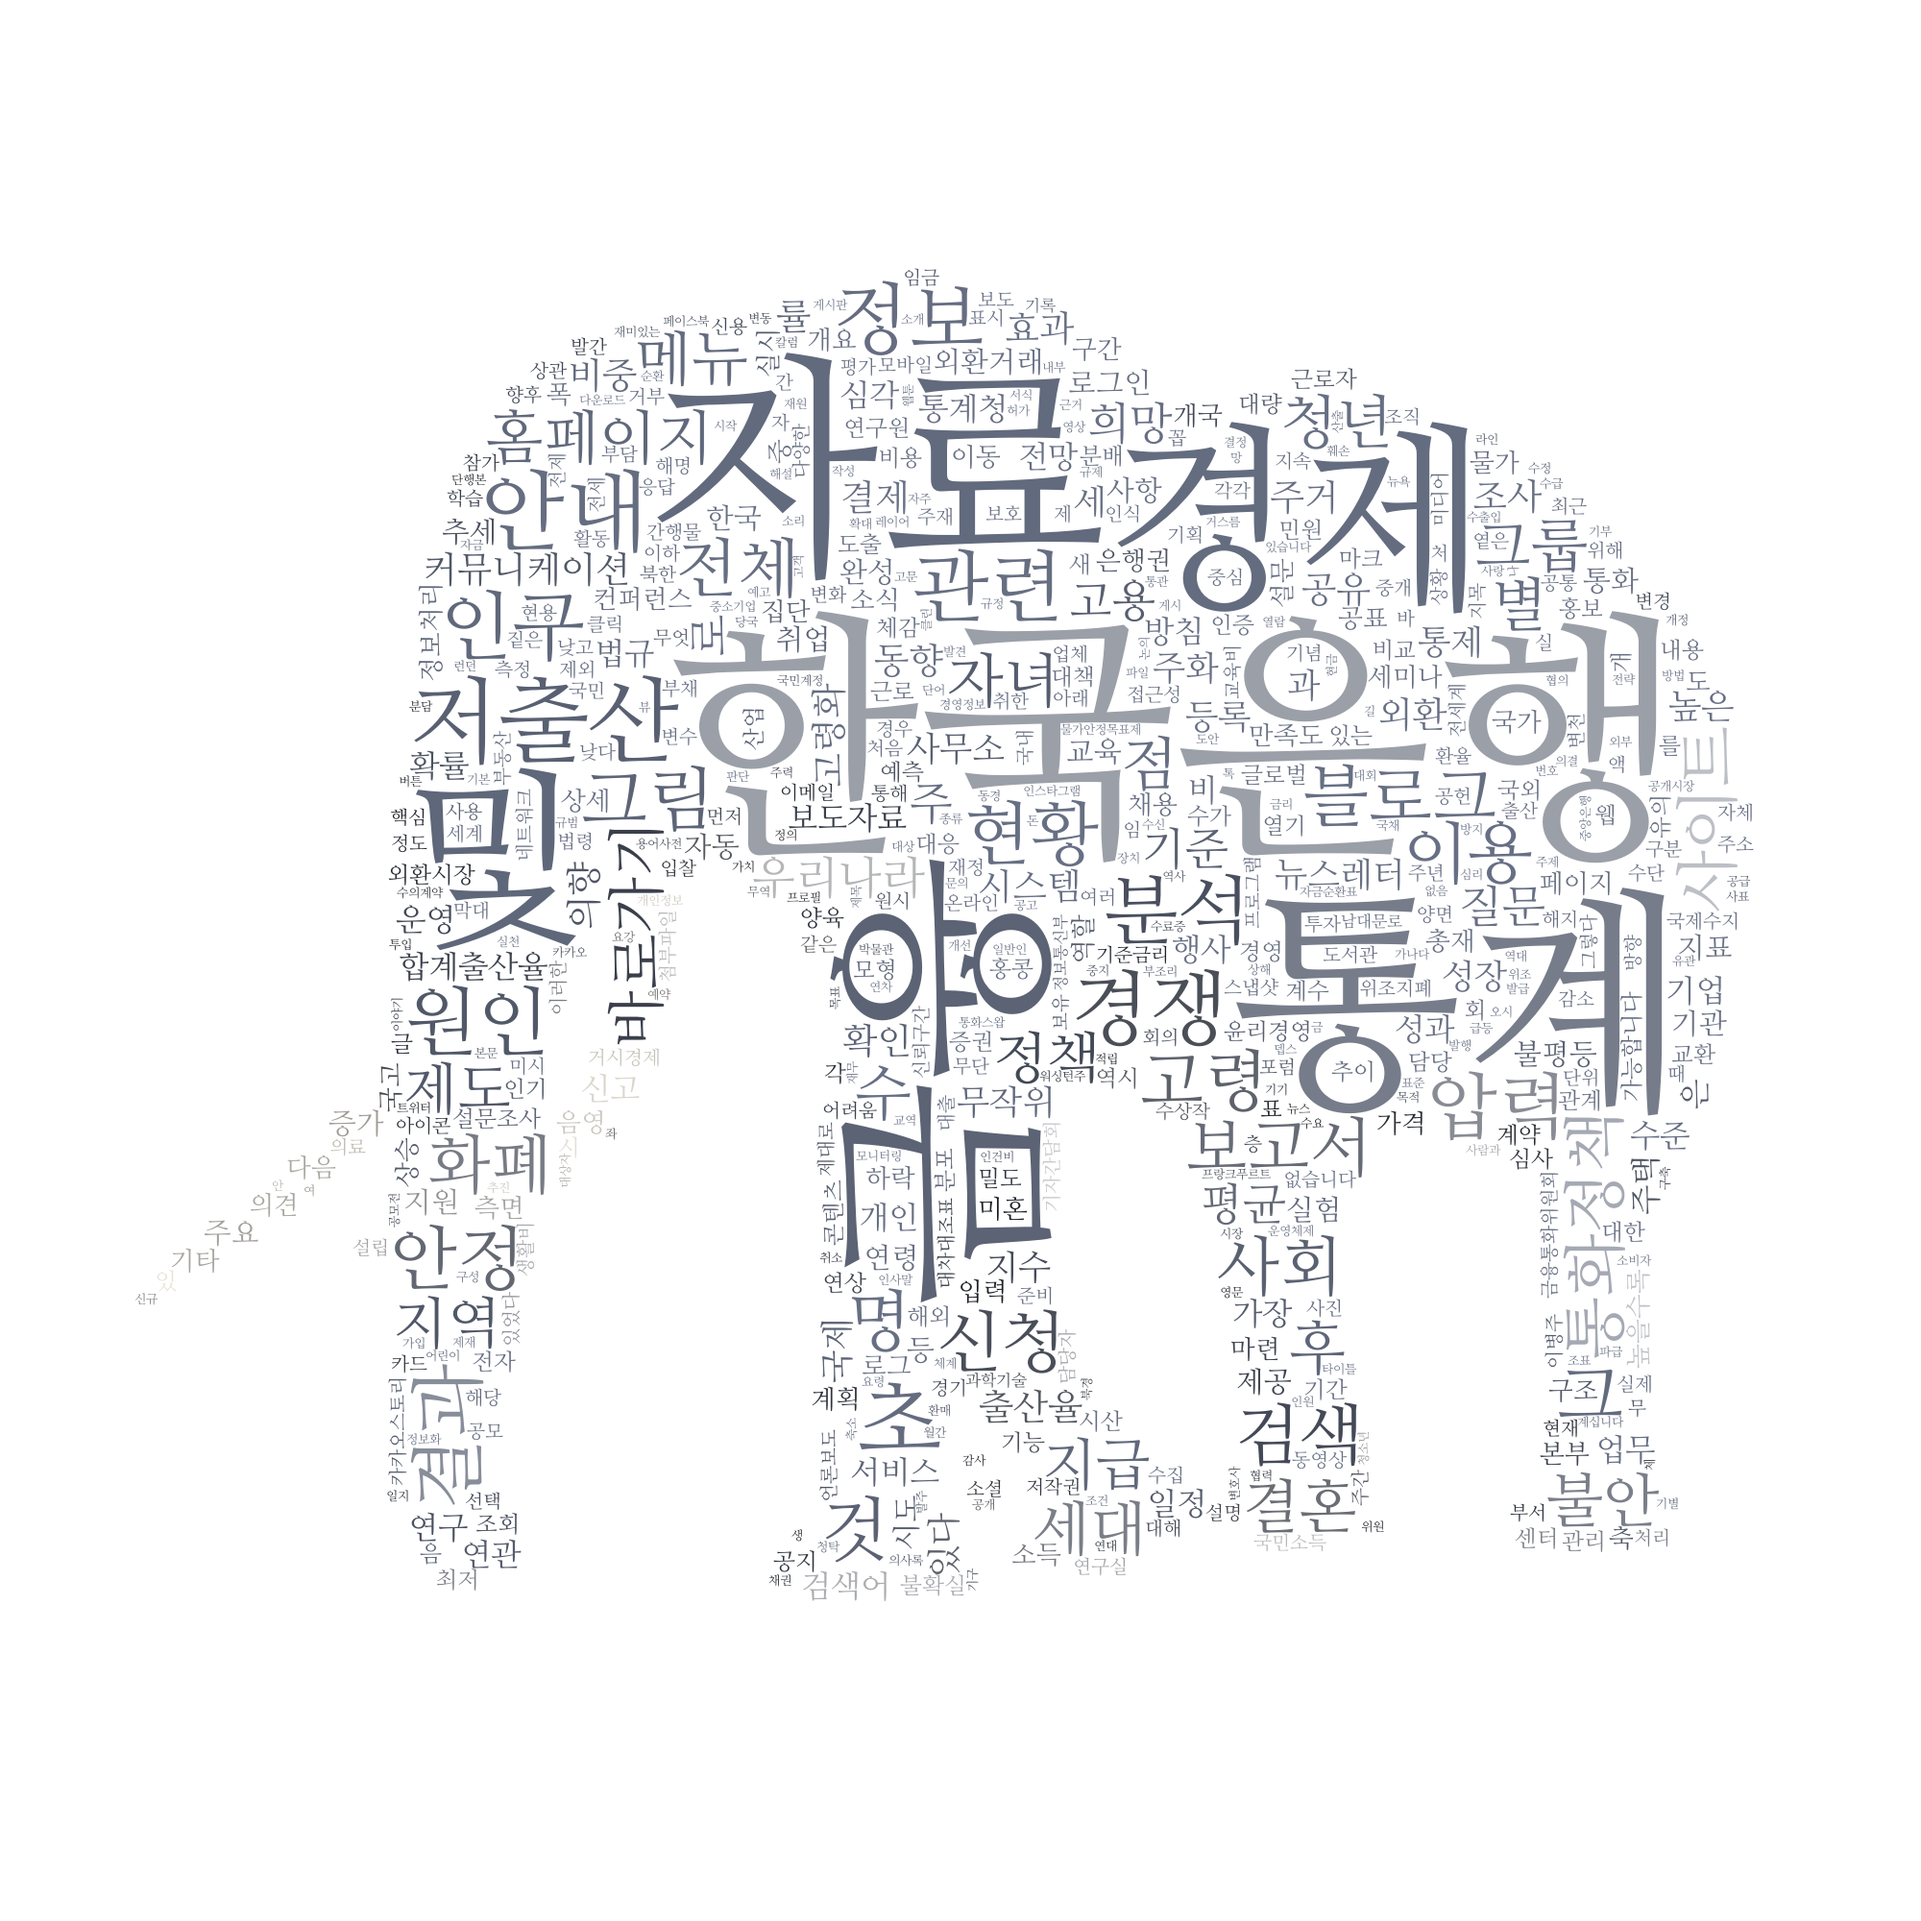
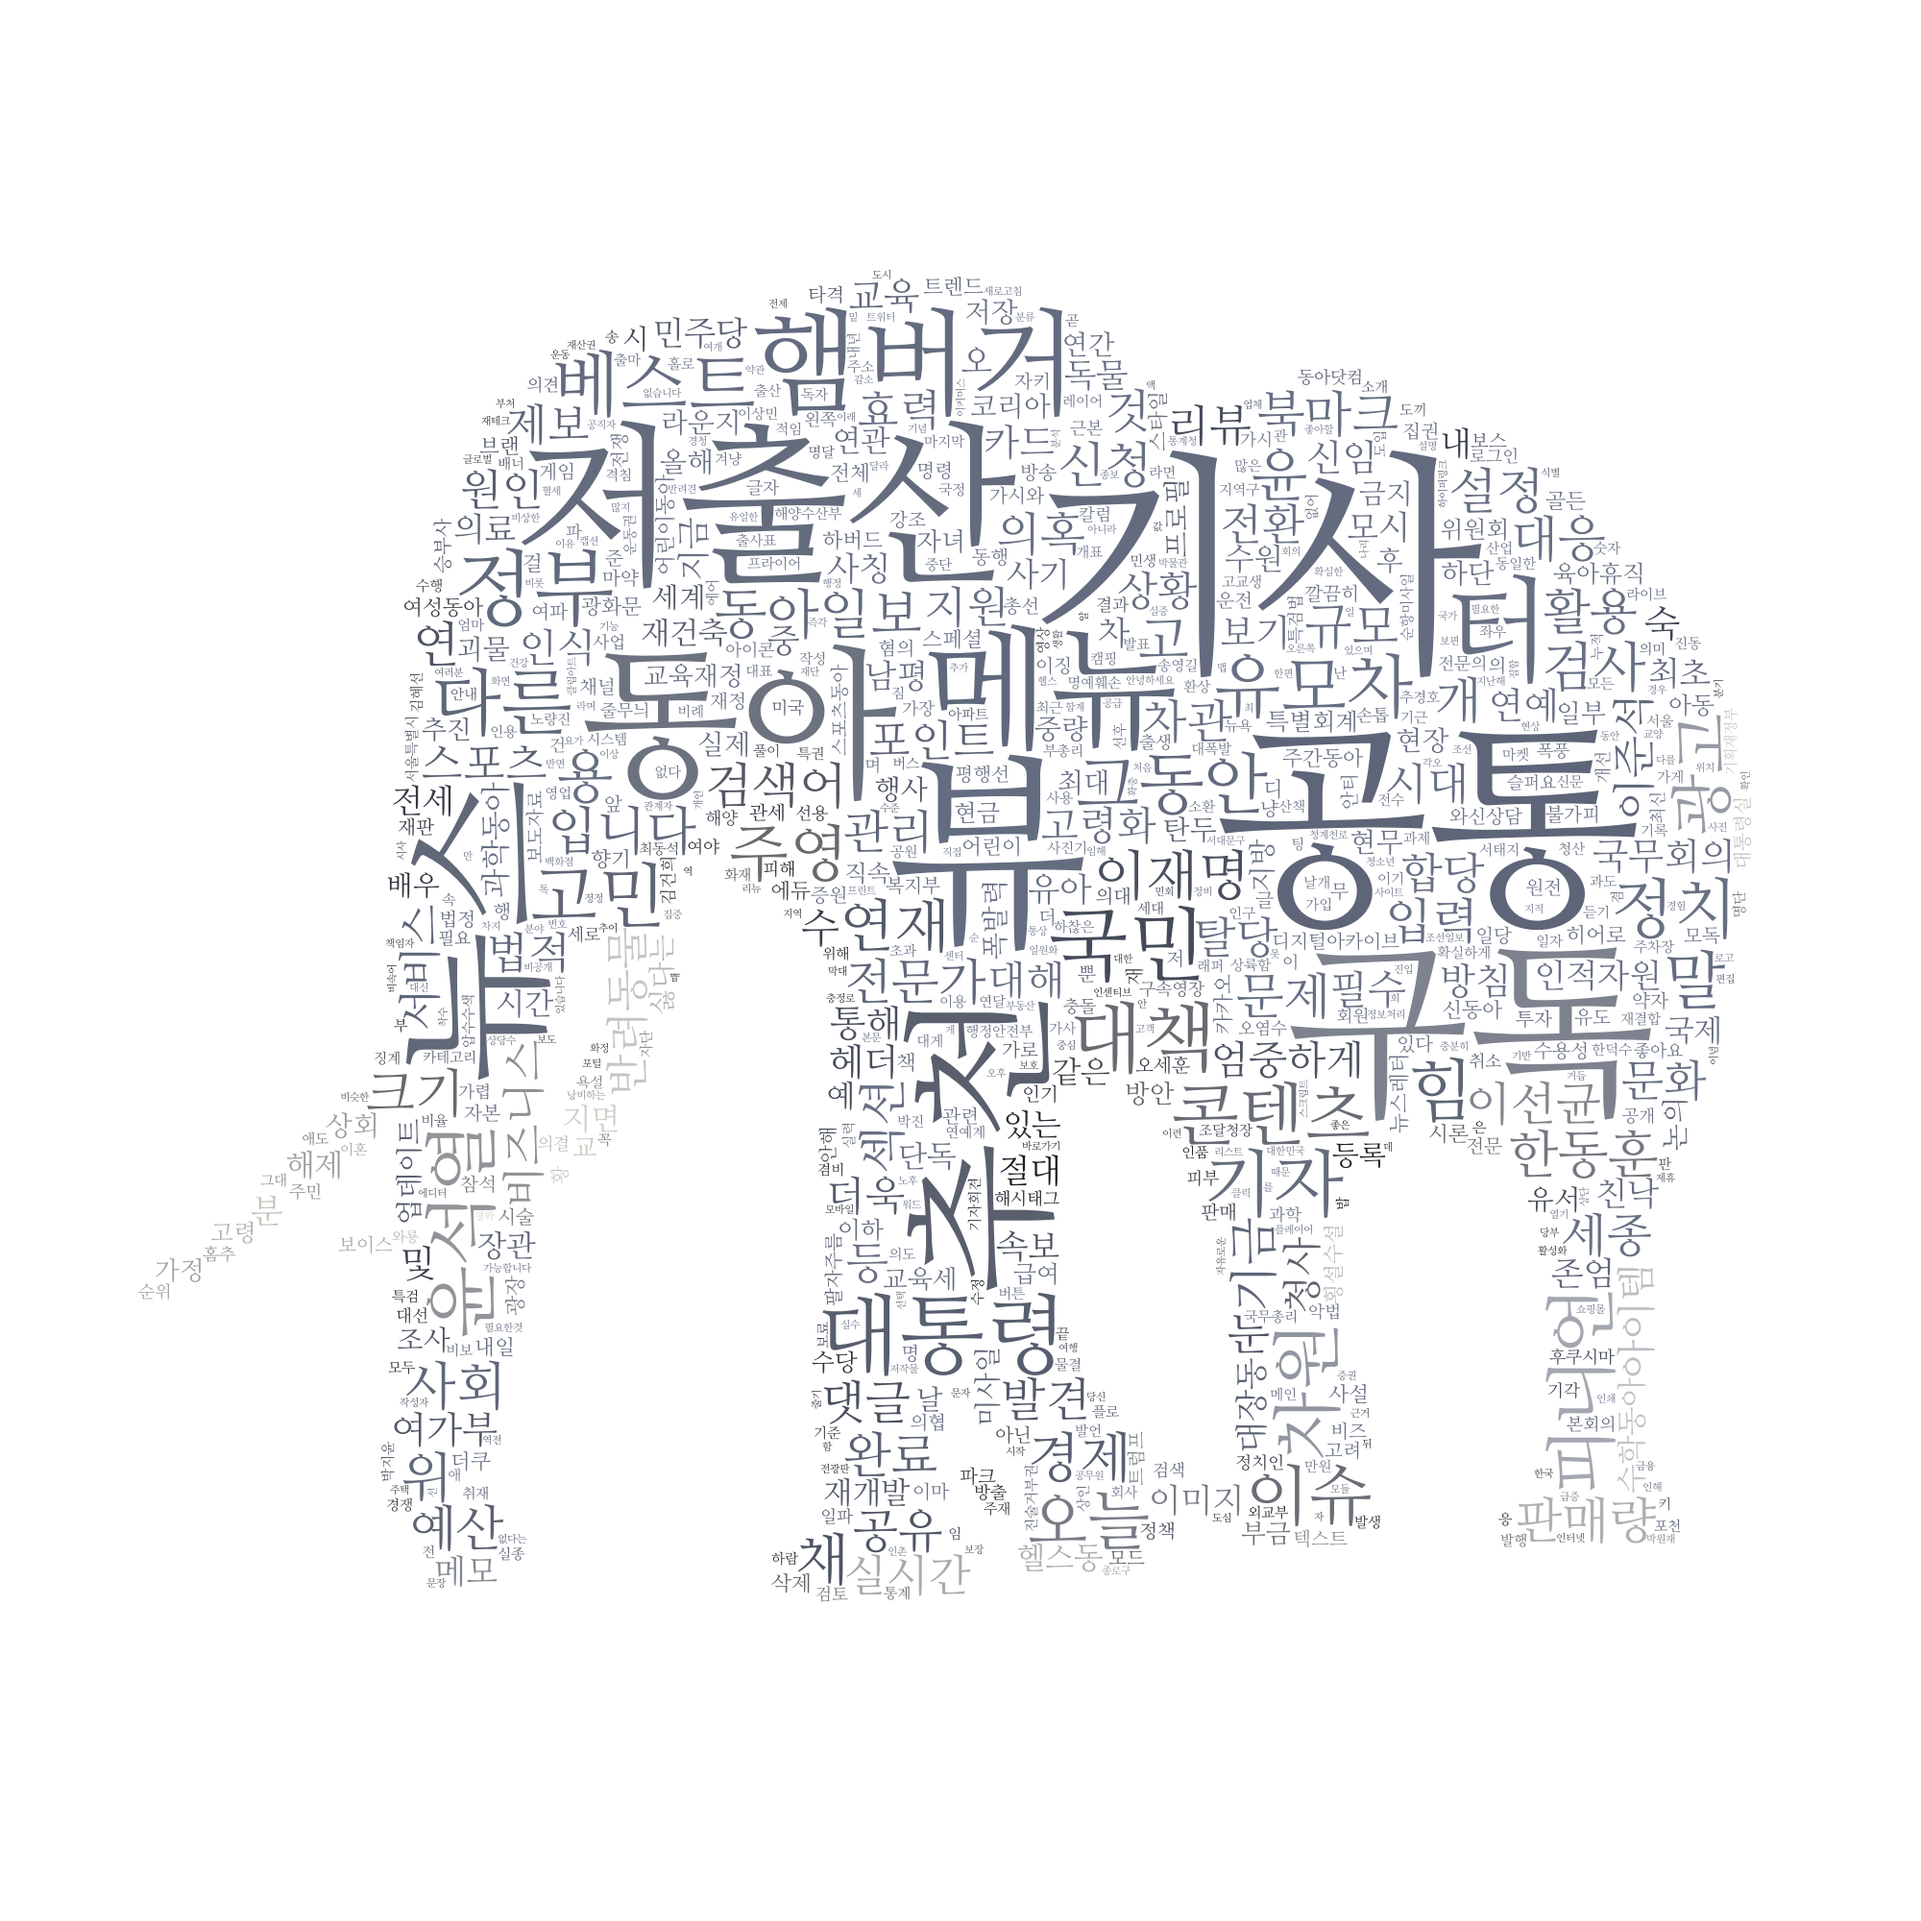
UnicodeDecodeError

Changed region(s): [[0.155, 0.124, 0.93, 0.837], [0.062, 0.651, 0.124, 0.682], [0.124, 0.62, 0.155, 0.651]]

diff --git a/WordCloud.py b/WordCloud.py
@@ -1,3 +1,4 @@
+import chardet
 import numpy as np
 from matplotlib import pyplot as plt
 from wordcloud import WordCloud, ImageColorGenerator
@@ -6,9 +7,10 @@ from collections import Counter
 import pycurl
 from io import BytesIO
 from PIL import Image
+import re
 
 
-# If needed, import BeautifulSoup from bs4
+
 
 def fetch_url_content(url):
     buffer = BytesIO()
@@ -27,22 +29,23 @@ def fetch_url_content(url):
     finally:
         c.close()
 
-    return buffer.getvalue().decode('utf-8')
+    raw_data = buffer.getvalue()
+    encoding = chardet.detect(raw_data)['encoding']
+    return raw_data.decode(encoding)
+
 
 
 def generate_wordcloud(text, font, baseImage, output_filename):
-    twitter = Okt()
-    pos_tagged = twitter.pos(text)
-
-    # noun_adj_list = [word for word, tag in pos_tagged if tag in ['Noun', 'Adjective']]
+    pos_tagged = Okt().pos(text)
+    print(pos_tagged)
     noun_adj_list = [word for word, tag in pos_tagged if tag in ['Noun', 'Adjective']]
-
-    exclude_words = ['입니다', '의', '이', '창']
-    noun_adj_list = [word for word in noun_adj_list if word not in exclude_words]
-
     print(noun_adj_list)
-    counts = Counter(noun_adj_list)
-    tags = counts.most_common(600)
+
+    exclude_words = []  # Define your exclude words here
+    filtered_words = [word for word in noun_adj_list if word not in exclude_words]
+
+    counts = Counter(filtered_words)
+    tags = counts.most_common(1000)
 
     masking_image = np.array(Image.open("images/{}.png".format(baseImage)))
 
@@ -51,9 +54,9 @@ def generate_wordcloud(text, font, baseImage, output_filename):
         font_path="font/{}/{}.otf".format(font, font),
         mask=masking_image,
         background_color='white',
-        max_font_size=300,
+        max_font_size=250,
         min_font_size=1,
-        max_words=600
+        max_words=1000
     ).generate_from_frequencies(dict(tags))
 
     # Use the colors from the mask image for the word cloud

diff --git a/main.py b/main.py
@@ -1,12 +1,8 @@
 from fastapi import FastAPI
-
 from DataModel import DataModel
 from WordCloud import fetch_url_content, generate_wordcloud
 
-# Import other necessary modules...
-
 app = FastAPI()
-
 
 @app.post("/wordCloud")
 async def receive_data(data: DataModel):
@@ -14,9 +10,17 @@ async def receive_data(data: DataModel):
     print(data.baseImage)
     print(data.urls)
 
+    all_content = ""  # Initialize a variable to store the combined content
+
     for url in data.urls:
         content = fetch_url_content(url)
         if content:
-            output_filename = f"result/result_{data.baseImage}_{data.font}.png"
-            generate_wordcloud(content, data.font, data.baseImage, output_filename)
-    return {"message": "Word clouds generated successfully for all URLs"}
+            all_content += " " + content  # Concatenate the content
+
+    if all_content:
+        output_filename = f"result/result_{data.baseImage}_{data.font}.png"
+        generate_wordcloud(all_content, data.font, data.baseImage, output_filename)
+
+    return {"message": "Word cloud generated successfully from all URLs"}
+
+# Rest of your code remains the same
